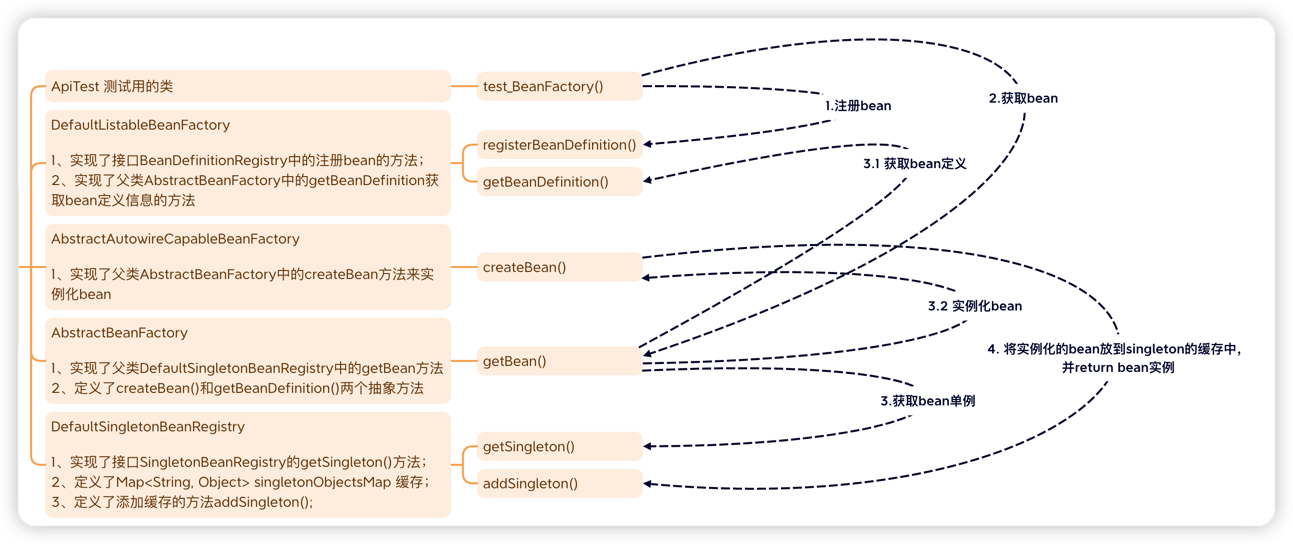
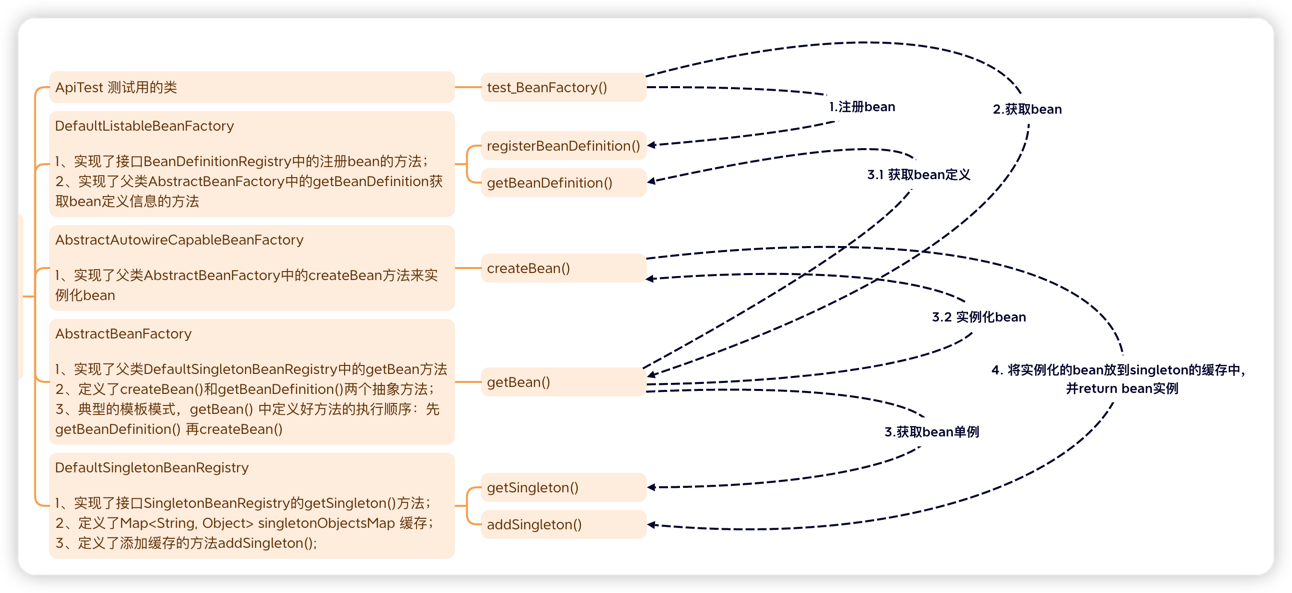
[step-02]添加注释

diff --git a/small-spring-step-02/src/main/java/cn/bugstack/springframework/beans/factory/support/AbstractBeanFactory.java b/small-spring-step-02/src/main/java/cn/bugstack/springframework/beans/factory/support/AbstractBeanFactory.java
@@ -7,9 +7,7 @@ import cn.bugstack.springframework.beans.factory.support.singleton.DefaultSingle
 
 /**
  * 抽象工厂，继承DefaultSingletonBeanRegistry，使其具备了单例注册和获取的功能
- *
  * @see #getBean 的方法供上层工厂实现类使用
- *
  * 下面两个方法相当于是模板方法的封装
  * @see #getBeanDefinition
  * @see #createBean
@@ -19,6 +17,7 @@ import cn.bugstack.springframework.beans.factory.support.singleton.DefaultSingle
 public abstract class AbstractBeanFactory extends DefaultSingletonBeanRegistry implements BeanFactory {
 
     /**
+     * 典型的模板模式，getBean() 中定义好方法的执行顺序：先getBeanDefinition() 再createBean()
      * 主要是对单例bean对象的获取，
      * 如果拿不到bean时，使用抽象方法#getBeanDefinition拿到bean的定义信息并调用另一个抽象方法#createBean来创建bean，具体实现由继承他的子类来实现
      */

diff --git a/small-spring-step-02/README_k.md b/small-spring-step-02/README_k.md
@@ -12,6 +12,7 @@ AbstractAutowireCapableBeanFactory
 AbstractBeanFactory
 1、实现了父类DefaultSingletonBeanRegistry中的getBean方法
 2、定义了createBean()和getBeanDefinition()两个抽象方法
+3、典型的模板模式，getBean() 中定义好方法的执行顺序：先getBeanDefinition() 再createBean()
 
 
 DefaultSingletonBeanRegistry
